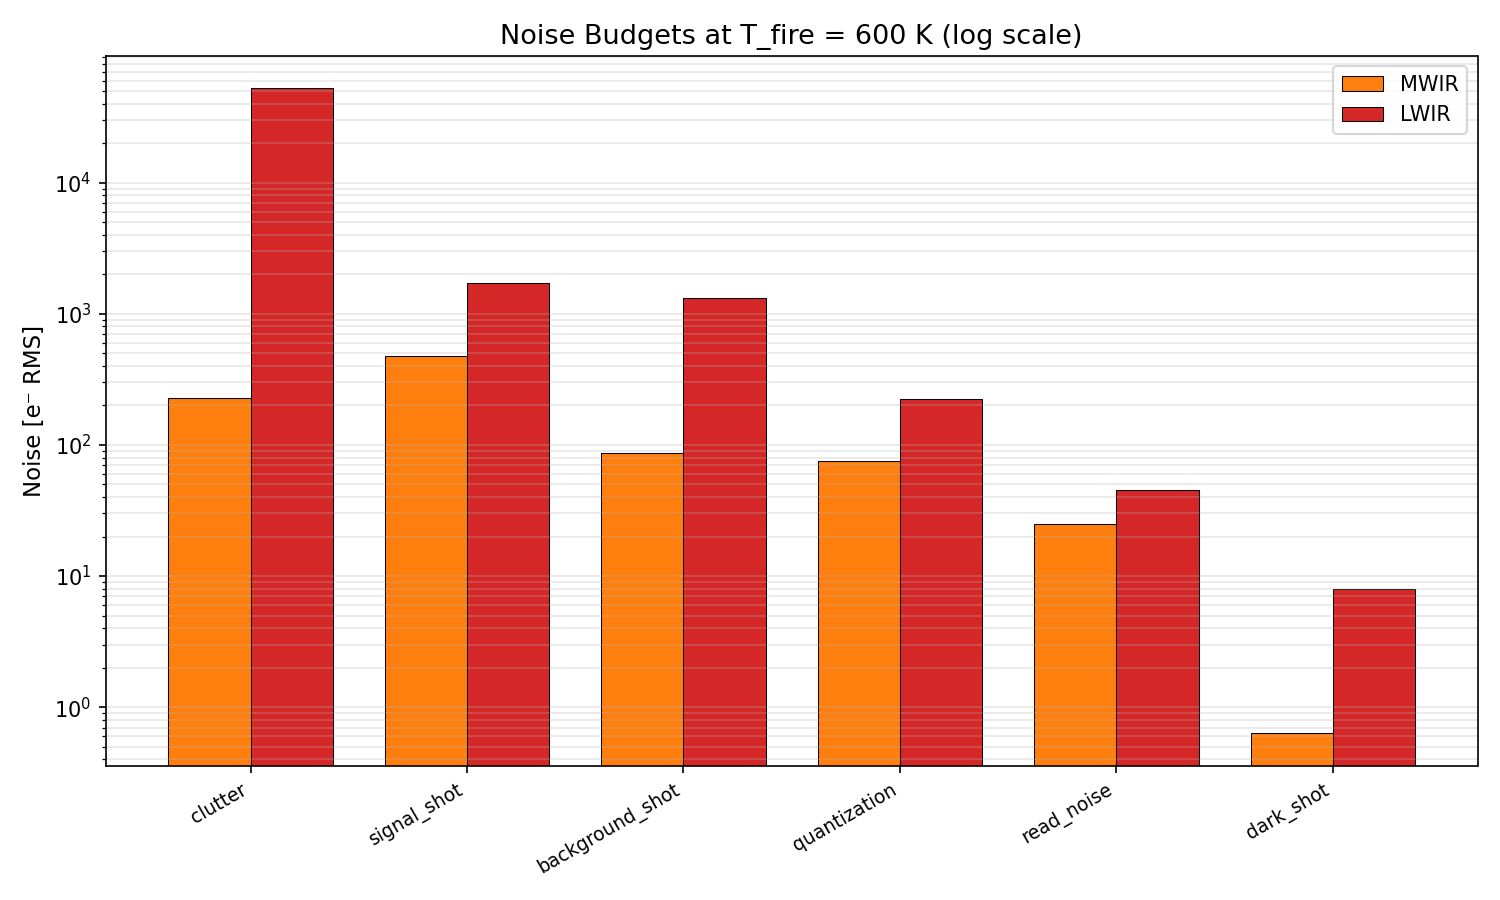
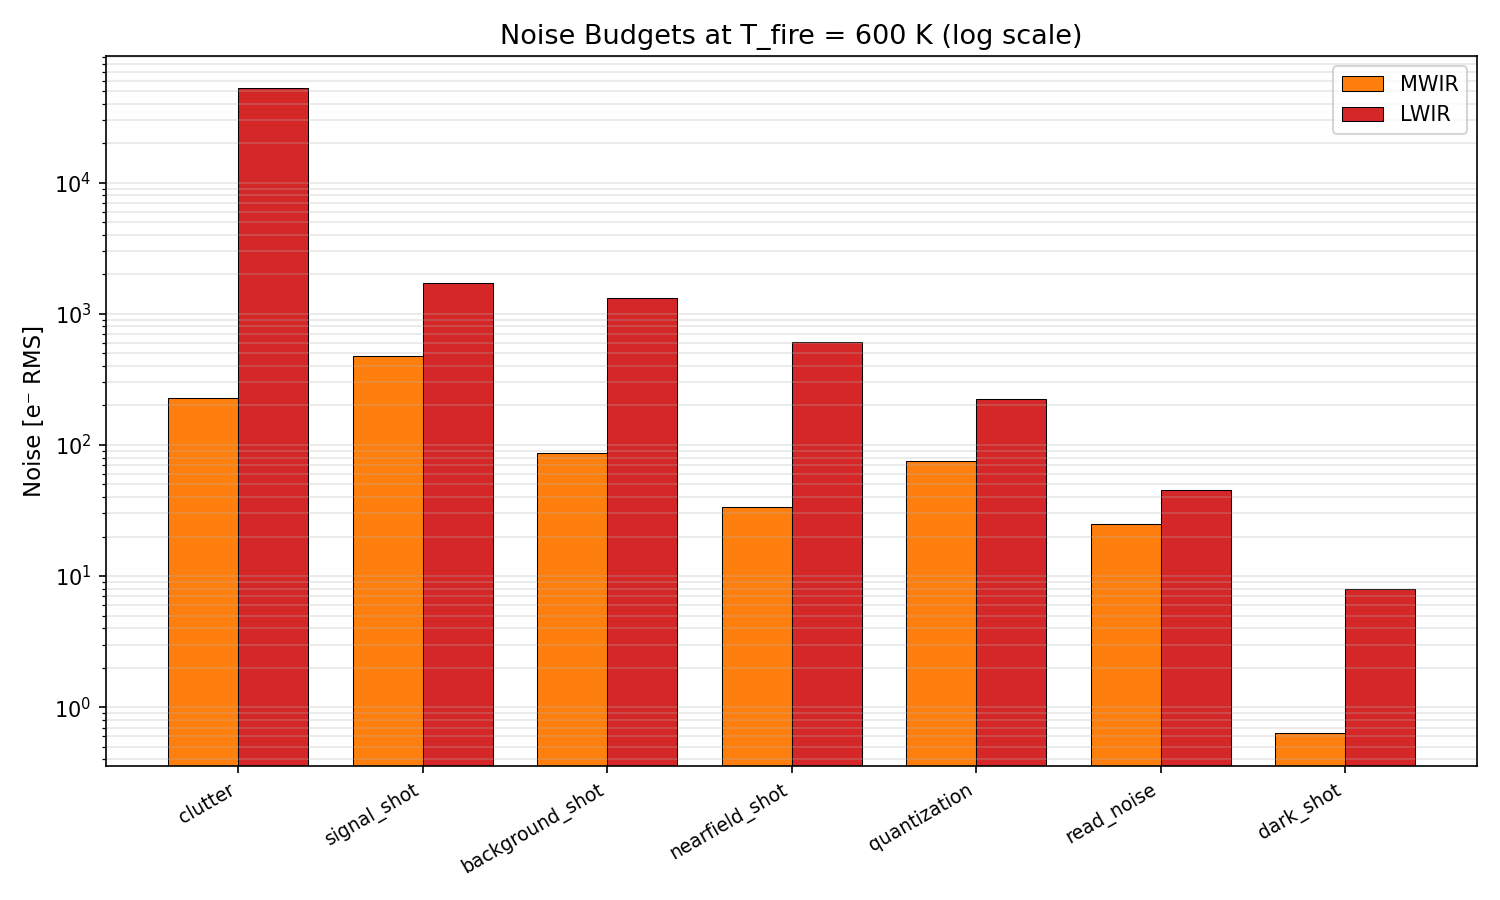
scenarios(1.3): warm optics declared, band trade re-derived (CU-380)
The runner set `optics.transmission_scalar` from the workbook's 78 % and
stopped. A scalar has no Kirchhoff emissivity, so the telescope could not emit
— and the "Optics temperature: 5 °C" Sarah's own spreadsheet supplies was read
by nothing. Now two reflective surfaces at R = sqrt(0.78) = 0.883176, net
throughput unchanged by construction, each emitting at eps = 0.116824 at the
declared 278.15 K. Deliberate departure from the 290 K airborne class default:
a scenario that states its own optics temperature is the authority.

The new nearfield_shot term is band-asymmetric by 327x — 371,856 e- in LWIR
against 1,136 e- in MWIR — because 278 K optics radiate inside 8-12 um and
down the Wien flank of 3.5-5 um. Which metric notices depends on what already
dominates:

  LWIR SNR 1357.8 -> 1307.7 (-3.7 %), NEDT 165.4 -> 171.8 mK (+3.9 %)
  MWIR SNR  464.2 ->  463.2 (-0.2 %), NEDT 229.9 -> 230.5 mK
  LWIR SCNR unchanged at 23.2 across the whole 400-1200 K sweep — it is
  99.8 % scene clutter, and 610 e- RMS in quadrature with 52,369 e- RMS is
  below the rounding. MWIR SCNR falls everywhere (408.0 -> 407.2 at 600 K).

No verdict moves: MWIR still detects at every temperature, LWIR still misses
the 400 K smolder, MWIR still saturates first at ~1200 K, NEDT still favours
LWIR. Added as physics-discussion item 6, because reading one metric alone
would have called this either a no-op or an LWIR regression.

Also folded in uncaptured refresh residue from a later atmosphere landing
[…]

diff --git a/scenarios/01_sarah_systems_engineer/1.3_dual_band_mwir_lwir/scripts/run_dual_band_trade.py b/scenarios/01_sarah_systems_engineer/1.3_dual_band_mwir_lwir/scripts/run_dual_band_trade.py
@@ -81,6 +81,7 @@ eps_forest = {b: forest.band_averaged_emissivity(*bands[b]) for b in bands}
 
 altitude_m = shared["Platform altitude"] * 1000.0  # km → m
 focal_m = shared["Focal length"] / 100.0  # cm → m
+optics_temp_K = shared["Optics temperature"] + 273.15  # °C → K
 gsd_m = det["MWIR"]["Pixel pitch"] * 1e-6 * altitude_m / focal_m
 footprint_m2 = gsd_m**2
 fill = shared["Hotspot area"] / footprint_m2
@@ -115,7 +116,30 @@ def build_sensor(band: str, hotspot_T: float) -> Sensor:
     s.set("geometry.path_zenith_rad", 0.0)
     s.set("optics.aperture_diameter_m", shared["Aperture diameter"], unit="cm")
     s.set("optics.focal_length_m", shared["Focal length"], unit="cm")
-    s.set("optics.transmission_scalar", shared["Optical transmission"], unit="%")
+    # Warm optics declared rather than lumped (CU-380). A scalar transmittance
+    # has no Kirchhoff emissivity (eps = 1 - T - R is undefined for a lump), so
+    # the previous `optics.transmission_scalar` left this telescope unable to
+    # emit -- and silently discarded the "Optics temperature" Sarah's own
+    # spreadsheet supplies. Two reflective surfaces at R = sqrt(tau_net) each
+    # reproduce the net throughput the workbook specifies, so the scene signal
+    # is unchanged, and each now emits at its Kirchhoff eps = 1 - R at the
+    # declared temperature. The trade pays for it asymmetrically: 278 K optics
+    # radiate inside the LWIR band and down the Wien flank of the MWIR one, so
+    # the new nearfield_shot term is 371,856 e- in LWIR against 1,136 e- in
+    # MWIR (measured) -- 7.2 % of the clutter-free noise power versus 0.5 %.
+    r_surface = math.sqrt(shared["Optical transmission"] / 100.0)
+    s.set_optical_elements(
+        [
+            {
+                "name": name,
+                "transfer_mode": "REFLECTIVE",
+                "kind": "MIRROR",
+                "reflectance": r_surface,
+                "temperature_K": optics_temp_K,
+            }
+            for name in ("M1", "M2")
+        ]
+    )
     s.set("detector.pixel_pitch_x_um", d["Pixel pitch"])
     s.set("detector.pixel_pitch_y_um", d["Pixel pitch"])
     s.set("detector.qe_value", d["Quantum efficiency (band avg)"], unit="%")

diff --git a/scenarios/01_sarah_systems_engineer/1.3_dual_band_mwir_lwir/walkthrough.md b/scenarios/01_sarah_systems_engineer/1.3_dual_band_mwir_lwir/walkthrough.md
@@ -41,6 +41,43 @@ regime weights the target by `source.target.fill_fraction` (CU-060 — the
 original execution left it at the default 1.0, overstating the fire signal
 ~3× and pulling the saturation temperatures down).
 
+*Numbers re-authored 2026-10-03. **CU-380**: the runner set
+`optics.transmission_scalar` from the workbook's 78 % and stopped there. A
+scalar transmittance has no Kirchhoff emissivity — ε = 1 − T − R is undefined
+for a lump — so this telescope could not emit, and the **"Optics temperature:
+5 °C" Sarah's own spreadsheet supplies was silently discarded** (it appeared in
+`inputs/create_spreadsheet.py` and was read by nothing). The train is now two
+reflective surfaces at R = √0.78 = 0.883176 each, which reproduces the net
+78 % the workbook specifies — so the scene signal is untouched — each emitting
+at ε = 1 − R = 0.116824 at the declared 278.15 K. Note the departure from the
+290 K airborne platform-class default: a scenario that states its own optics
+temperature is the authority, and the class convention is only the fallback.
+
+The new `nearfield_shot` term lands **371,856 e⁻ in LWIR against 1,136 e⁻ in
+MWIR** — 7.2 % of the LWIR clutter-free noise power versus 0.5 % of the MWIR —
+because 278 K optics radiate inside the 8–12 µm band and down the Wien flank of
+3.5–5 µm. The consequences separate by metric, which is the instructive part:
+
+- **SNR and NEDT, which exclude clutter, take the hit**: LWIR SNR
+  1 357.8 → 1 307.7 (−3.7 %), NEDT 165.4 → 171.8 mK (+3.9 %); MWIR barely
+  moves (464.2 → 463.2, 229.9 → 230.5 mK, −0.2 %).
+- **SCNR does not move at all in LWIR** (23.2, and the whole 400–1200 K sweep
+  column is unchanged to the quoted precision). LWIR SCNR is 99.9 % scene
+  clutter, and 610 e⁻ RMS added in quadrature to 52 369 e⁻ RMS is invisible.
+  MWIR SCNR, which is *not* clutter-dominated, falls everywhere — 408.0 → 407.2
+  at 600 K, 42.7 → 42.4 at 400 K.
+- **No verdict changes.** MWIR still detects at every temperature, LWIR still
+  misses the 400 K smolder (SCNR 1.1, P_d 0.000), MWIR still saturates first at
+  ≈1200 K, and NEDT still favours LWIR. Warm optics cost LWIR the metric it
+  was already winning on and cost MWIR nothing it needed.
+
+A small part of the LWIR movement is not CU-380: the measured pre-change run
+differs from the 2026-09-01 vintage recorded below in the fifth significant
+figure (pixel signal 2 962 748 → 2 962 820 e⁻, clutter 52 366.3 → 52 369.4 e⁻
+RMS, ~2 × 10⁻⁵ relative, LWIR only), which is uncaptured refresh residue from a
+later atmosphere landing, not this change. It is folded into the table below
+rather than tracked, since this refresh corrects it.*
+
 *Numbers refreshed 2026-08-30 from the unmodified runner. **CU-324 item 2** now
 places the 9.6 µm ozone share of the gas floor on the 25 km ozone layer instead
 of the 4 km well-mixed profile, so the LWIR column's own thermal emission falls:
@@ -96,15 +133,16 @@ rather than the column's near-surface temperature, which took pixel signal LWIR
 
 | Quantity | MWIR | LWIR |
 |----------|-----:|-----:|
-| Pixel signal [e⁻] | 228,529 | 2,962,748 |
-| Contrast (fire − forest) [e⁻] | 220,998 | 1,217,206 |
+| Pixel signal [e⁻] | 228,529 | 2,962,820 |
+| Contrast (fire − forest) [e⁻] | 220,998 | 1,217,173 |
 | Well fill [%] | 5.7 | 24.7 |
-| Total noise [e⁻ RMS] | 541.6 | 52,411.7 |
-| — of which clutter [e⁻ RMS] | 225.9 | 52,366.3 |
-| SNR [--] | 464.2 | 1,357.8 |
-| Contrast SNR [--] | 448.9 | 557.8 |
-| **SCNR (incl. clutter) [--]** | **408.0** | **23.2** |
-| NEDT [mK] (Gap 43 approximation) | 229.9 | 165.4 |
+| Total noise [e⁻ RMS] | 542.7 | 52,418.4 |
+| — of which clutter [e⁻ RMS] | 225.9 | 52,369.4 |
+| — of which warm optics (`nearfield_shot`) [e⁻ RMS] | 33.7 | 609.8 |
+| SNR [--] | 463.2 | 1,307.7 |
+| Contrast SNR [--] | 447.9 | 537.2 |
+| **SCNR (incl. clutter) [--]** | **407.2** | **23.2** |
+| NEDT [mK] (Gap 43 approximation) | 230.5 | 171.8 |
 
 ### Spectral contrast (hand Planck, ASTER ε_bg(λ))
 
@@ -119,11 +157,11 @@ different signal-to-clutter.
 
 | T_fire [K] | MWIR SCNR | sat? | LWIR SCNR | sat? | P_d MWIR | P_d LWIR |
 |-----------:|----------:|:----:|----------:|:----:|:--------:|:--------:|
-| 400 | 42.7 | no | 1.1 | no | 1.000 | **0.000** |
-| 500 | 188.0 | no | 10.7 | no | 1.000 | 1.000 |
-| 600 | 408.0 | no | 23.2 | no | 1.000 | 1.000 |
-| 800 | 924.3 | no | 54.2 | no | 1.000 | 1.000 |
-| 1000 | 1,464.5 | no | 90.1 | no | 1.000 | 1.000 |
+| 400 | 42.4 | no | 1.1 | no | 1.000 | **0.000** |
+| 500 | 187.3 | no | 10.7 | no | 1.000 | 1.000 |
+| 600 | 407.2 | no | 23.2 | no | 1.000 | 1.000 |
+| 800 | 923.8 | no | 54.2 | no | 1.000 | 1.000 |
+| 1000 | 1,464.1 | no | 90.1 | no | 1.000 | 1.000 |
 | 1200 | 2,004.4 | **YES** | 128.8 | no | 1.000 | 1.000 |
 
 MWIR detects the 5 m² fire with P_d ≈ 1 at every temperature; **LWIR
@@ -141,15 +179,15 @@ cannot be retrieved.
 
 ## Physics Discussion
 
-1. **Clutter, not noise, is the LWIR penalty.** LWIR total noise is ~102×
-   MWIR's, and 99.9% of it is scene clutter — 3% of a background that is
+1. **Clutter, not noise, is the LWIR penalty.** LWIR total noise is ~97×
+   MWIR's, and 99.8% of it is scene clutter — 3% of a background that is
    an order of magnitude brighter in-band. MWIR detection rides on the
    Wien-side contrast steepness with a dim background underneath.
 2. **ΔL alone is misleading.** The band-integrated radiance contrasts are
    within 2% of each other at 600 K; a briefing chart that stopped at ΔL
    would call the bands equivalent. The chain comparison (photon
    conversion, per-band QE/dark/read, clutter) is what separates them.
-3. **NEDT favors LWIR (165.4 vs 229.9 mK)** — for mapping ambient-
+3. **NEDT favors LWIR (171.8 vs 230.5 mK)** — for mapping ambient-
    temperature scenes LWIR remains the right band; NEDT is the wrong
    figure of merit for fire *detection* (both values carry the Gap 43
    single-λ caveat; the reflected-solar component of that caveat is
@@ -165,6 +203,17 @@ cannot be retrieved.
    cool fires from 10 km at this fill. MWIR stays at P_d ≈ 1 everywhere.
    (ROC-grade detection modeling now exists — `performance.roc`, scenario
    6.4 — and could replace the single-threshold model here.)
+6. **Warm optics are a band-asymmetric tax, and which metric notices depends
+   on what already dominates.** The same two 278 K mirrors put 371,856 e⁻ into
+   the LWIR pixel and 1,136 e⁻ into the MWIR one — a 327× split, because the
+   optics radiate inside 8–12 µm and down the Wien flank of 3.5–5 µm. Yet LWIR
+   *SCNR* does not move: at 52 369 e⁻ RMS of scene clutter, 610 e⁻ RMS in
+   quadrature is below the rounding. It is LWIR NEDT — a clutter-free figure of
+   merit — that pays, +3.9 %. Reading only the detection metric would have
+   reported this change as a no-op; reading only NEDT would have reported it as
+   an LWIR regression. Both readings are incomplete, which is the general
+   lesson for any warm-optics trade: quote the metric whose noise basis the new
+   term actually enters.
 
 ## Recommendation
 
